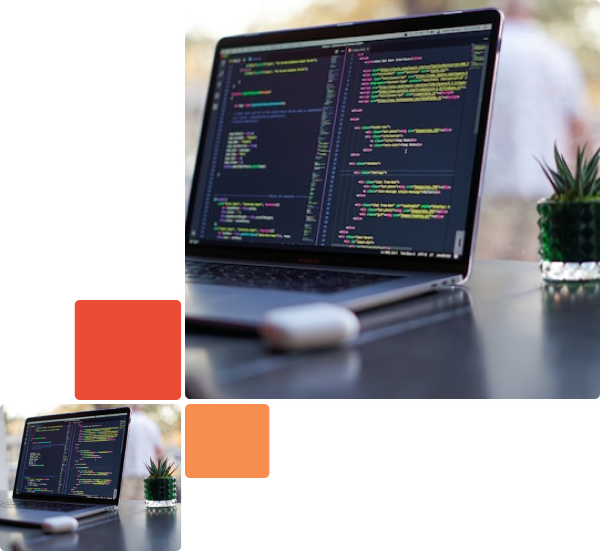
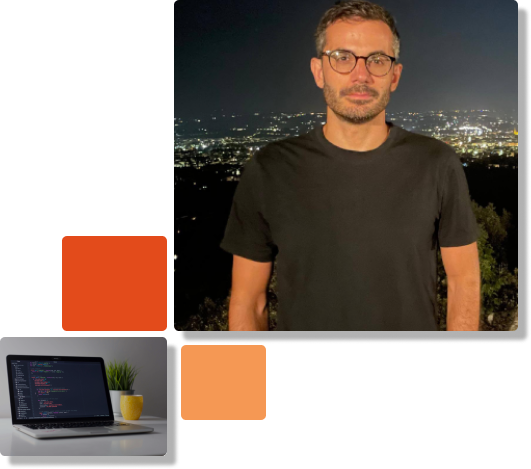
aggiunto foto ottimizzate e testi

diff --git a/index.html b/index.html
@@ -70,7 +70,7 @@
 
 		<div class="grid reverse">
 			<div class="col-50">
-				<img class="img-res" src="/img/media-text.png" alt="">
+				<img class="img-res" src="/img/mediatext.png" alt="">
 			</div>
 			<div class="col-50 pt-2 pl-2">
 				<h2 class="text-1">Piacere, sono Davide!</h2>
@@ -84,14 +84,15 @@
 
 		<!-- MEDIA TEXT -->
 
-		<!-- COVER -->
+		<!-- BANNER -->
 
 		<div class="cover spacer-t">
 			<div class="overlay"></div>
 			<div class="cover__text">
-				<h2 class="text-1 pb-1">Lorem Ipsum</h2>
-				<p class="text-3 pb-2">Lorem ipsum dolor sit amet consectetur, adipisicing elit. Cumque, consequuntur?
-				</p>
+				<h2 class="text-1 pb-1">Mettiamoci a Lavoro</h2>
+				<p class="text-3 pb-2">Ogni progetto è più di un sito bello dal design accattivante, ci vuole studio
+					comunicazione, strategia e funzionalità
+					studiate sulle tue esigenze.</p>
 				<a href="" class="button">Contattami</a>
 			</div>
 		</div>
@@ -100,18 +101,29 @@
 
 		<!-- BLOCCHI ICONE -->
 
-		<div class="grid text-center spacer-t">
+		<h2 class="text-1 text-center spacer-t">Ecco come lavoro, i miei punti di forza sono</h2>
+		<div class="grid text-center">
 			<div class="col-33 p-1">
 				<img src="/img/design.svg" width="30px" height="30px" alt="">
-				<p>Lorem ipsum dolor sit amet consectetur, adipisicing elit. Cumque, consequuntur?</p>
+				<h3>Approccio personalizzato alle tue esigenze</h3>
+				<p>Comprendere le esigenze specifiche del tuo settore, adattare design e contenuto del tuo sito web per
+					massimizzare la visibilità online e attirare il tuo pubblico di riferimento</p>
 			</div>
 			<div class="col-33 p-1">
 				<img src="/img/coding.svg" width="30px" height="30px" alt="">
-				<p>Lorem ipsum dolor sit amet consectetur, adipisicing elit. Cumque, consequuntur?</p>
+				<h3>Design moderno e responsive</h3>
+				<p>Utilizzo le ultime tendenze e tecnologie nel web design per creare siti web esteticamente
+					accattivanti e completamente
+					responsive, garantendo una perfetta visualizzazione su tutti i dispositivi e una migliore esperienza
+					utente per i tuoi
+					clienti</p>
 			</div>
 			<div class="col-33 p-1">
 				<img src="/img/contact.svg" width="30px" height="30px" alt="">
-				<p>Lorem ipsum dolor sit amet consectetur, adipisicing elit. Cumque, consequuntur?</p>
+				<h3>Collaborazione trasparente e comunicazione costante</h3>
+				<p>Ti terrò costantemente aggiornato sullo sviluppo del tuo sito web e sarò sempre disponibile per
+					discutere le
+					e accogliere eventuali feedback per migliorare le prestazioni del sito</p>
 			</div>
 		</div>
 
@@ -122,15 +134,12 @@
 		<div class="grid spacer-t">
 			<div class="col-50 pt-2">
 				<h2 class="text-1">Lorem ipsum dolor sit amet.</h2>
-				<p class="m-3">Lorem ipsum dolor sit amet consectetur adipisicing elit. Aspernatur saepe praesentium
-					earum
-					quis corporis
-					eos?Lorem ipsum dolor sit amet consectetur adipisicing elit. Aspernatur saepe praesentium earum quis
-					corporis
-					eos?</p>
+				<p class="m-3">Ogni progetto è più di un sito bello dal design accattivante, ci vuole studio
+					comunicazione, strategia e funzionalità
+					studiate sulle tue esigenze. Con la mia esperienza possiamo fare qualcosa di simile per te.</p>
 			</div>
 			<div class="col-50">
-				<img class="img-res" src="/img/media-text.png" alt="">
+				<img class="img-res" src="/img/mediatext.png" alt="">
 			</div>
 		</div>
 
@@ -173,8 +182,8 @@
 
 		<div class="grid text-center">
 			<div class="col-100">
-				<h2 class="mb-3">Lorem ipsum dolor sit amet.</h2>
-				<a href="" class="button">Scopri di Più</a>
+				<h2 class="mb-3">Porta la tua presenza online al livello successivo</h2>
+				<a href="" class="button">Contattami</a>
 			</div>
 		</div>
 

diff --git a/style.css b/style.css
@@ -216,6 +216,10 @@ body {
     margin-bottom: 20px;
     font-size: 2.5rem;
   }
+
+  .text-1 {
+    font-size: 2.5rem;
+  }
 }
 
 /* UTILITIES */
